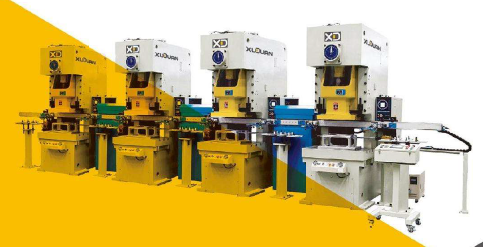
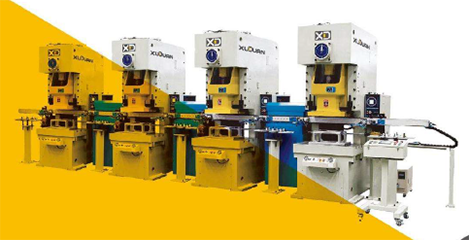
make it look good on phone

diff --git a/src/components/Home.js b/src/components/Home.js
@@ -142,7 +142,7 @@ class Hompage extends React.Component {
                     <Col lg={5}>
                       <Link to='/vte'>
                       <Container>
-                          <Image roundedCircle src="/images/vte/banner_vte.jpg" width="250" height="140" />
+                          <Image roundedCircle src="/images/vte/vte_enter.PNG" fluid />
                           <h2>VTE</h2>
                           <p>ประกอบกิจการ ซ่อม ติดตั้ง ขนย้าย และงานบำรุงรักษาเชิงป้องกันของเครื่องเพรส(เครื่องปั๊มโลหะ)</p>
                         </Container>
@@ -153,7 +153,7 @@ class Hompage extends React.Component {
                     <Col lg={5}>
                       <Link to='/vtm'>
                         <Container>
-                          <Image roundedCircle src="/images/vtm/vtm_enter.PNG" width="250" height="140" />
+                          <Image roundedCircle src="/images/vtm/vtm_enter.PNG" fluid />
                           <h2>VTM</h2>
                           <p>วีที แมชชีนเนอรี่ เป็นตัวแทนจำหน่ายเครื่องเพรสที่ราคา สมเหตุสมผลและมีคุณภาพตามมาตรฐานสากล</p>
                         </Container>

diff --git a/src/components/VTMProductsImagesItem.js b/src/components/VTMProductsImagesItem.js
@@ -61,7 +61,7 @@ class MyVerticallyCenteredModal extends React.Component {
       let modalClose = () => this.setState({ modalShow: false });
       return (
      
-            <Col md={6} lg={3}>
+            <Col md={6} lg={3} sm={6} xs={6}>
                 <div style={{padding:'0.1rem'}}>
                 <Image
                     style={{alignItems:'center'}}

diff --git a/src/components/Footer.js b/src/components/Footer.js
@@ -24,7 +24,6 @@ function Footer(){
               <Image 
                className='color'
                 fluid
-                width='500'
                 src='/images/vtm/logo_vtm.png'
               />
             </Link>
